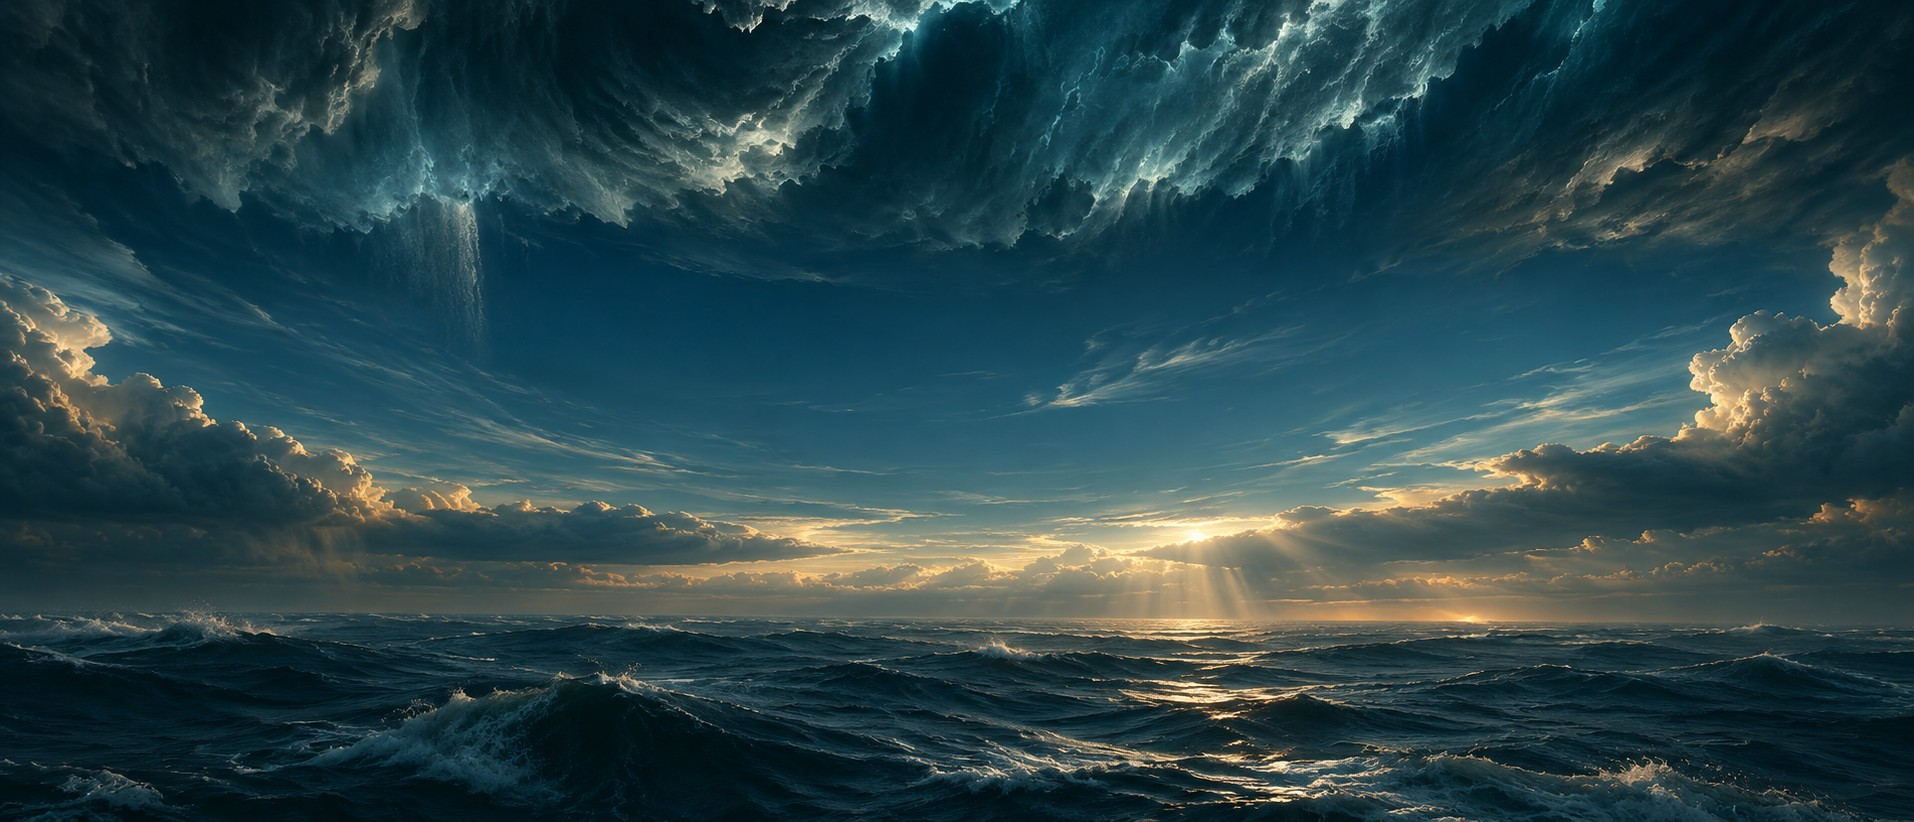
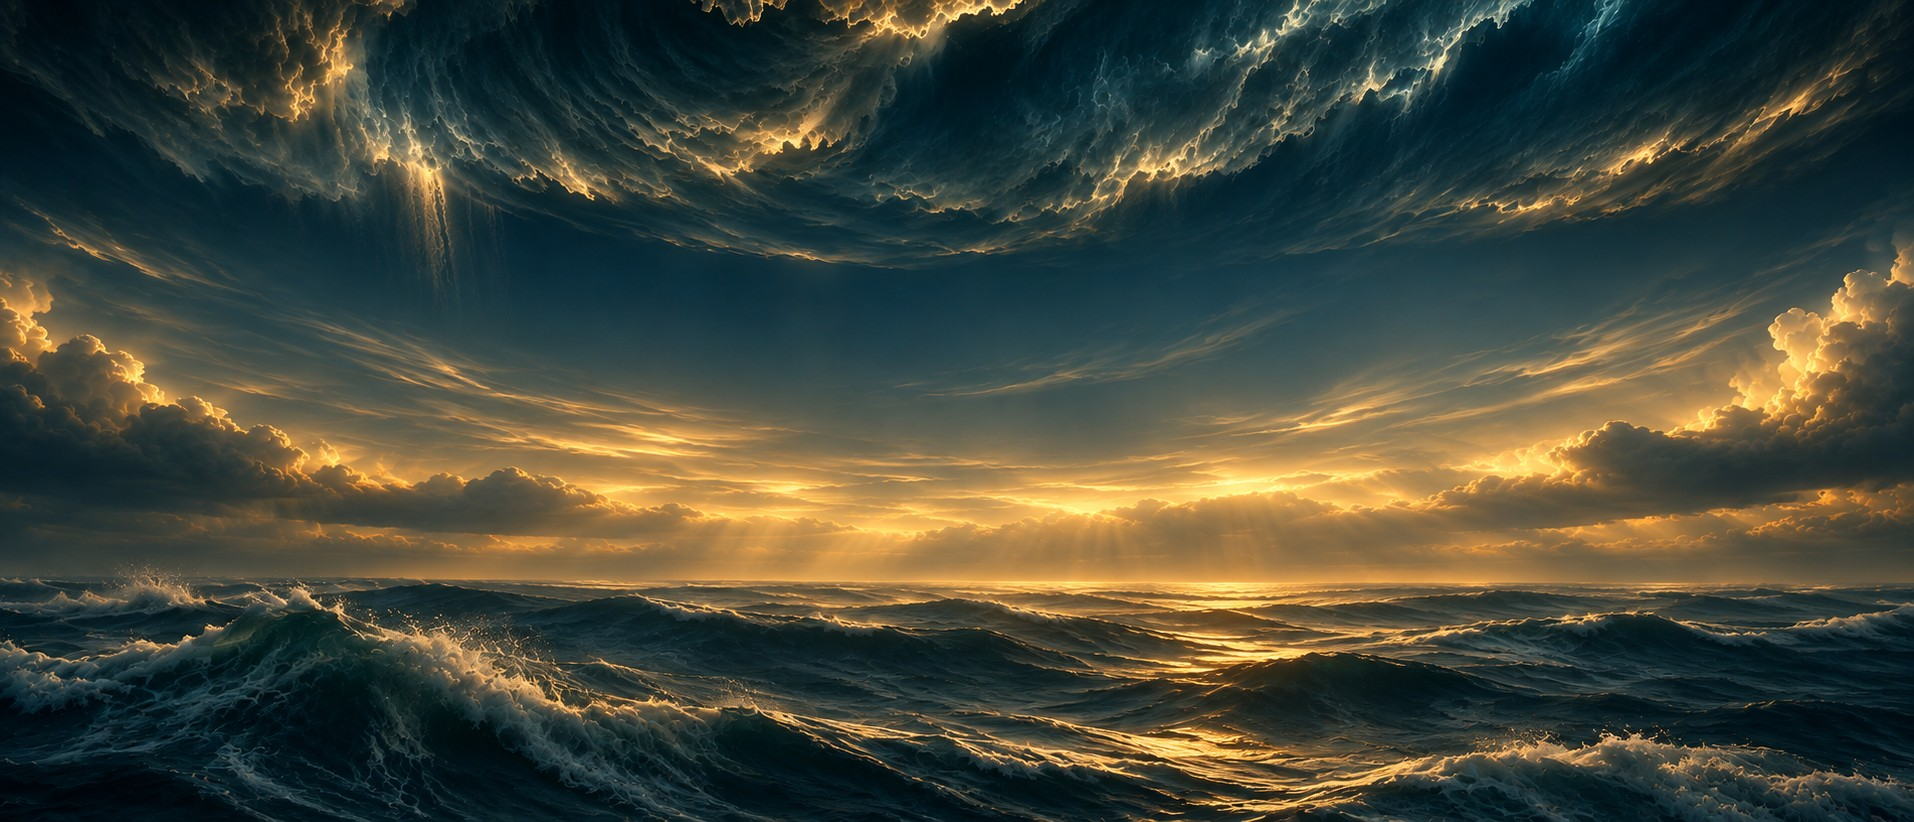
NEXUS: quadros da criação aprovados pelo juiz (todos 8 ou mais); mundos em modo estudo com o guia à esquerda; pesquisa das sete trombetas

diff --git a/public/nexus/livro-cinema.js b/public/nexus/livro-cinema.js
@@ -12,9 +12,20 @@ export const CINEMA = {
     { img: 'genesis-06-vida', ref: 'Gênesis 1:20', txt: 'Produzam as águas abundantemente répteis de alma vivente; e voem as aves sobre a face da expansão dos céus.' },
     { img: 'genesis-07-eden', ref: 'Gênesis 2:8', txt: 'E plantou o Senhor Deus um jardim no Éden, da banda do oriente; e pôs ali o homem que tinha formado.' },
   ] },
+  trombetas: { livro: 'Apocalipse 8–11', titulo: 'As sete trombetas', nota: 'Quadros simbólicos do que o texto descreve. Há várias leituras do Apocalipse (futurista, histórica, preterista, idealista); a imagem não escolhe nenhuma.', quadros: [
+    { img: 'trombetas-00-trono', ref: 'Apocalipse 8:1–2', txt: "Quando abriu o sétimo selo, fez-se silêncio no céu, quase por meia hora. E vi os sete anjos que estavam em pé diante de Deus, e lhes foram dadas sete trombetas." },
+    { img: 'trombetas-00-altar', ref: 'Apocalipse 8:3–5', txt: "Veio outro anjo, e pôs-se junto ao altar, tendo um incensário de ouro; e foi-lhe dado muito incenso, para que o oferecesse com as orações de todos os santos sobre o altar de ouro que está diante do trono. E da mão do anjo subiu diante de Deus a fumaça do incenso com as orações dos santos. Depois do anjo tomou o incensário, encheu-o do fogo do altar e o lançou sobre a terra; e houve trovões, vozes, relâmpagos e terremoto." },
+    { img: 'trombetas-01', ref: 'Apocalipse 8:7 · 1ª trombeta', txt: "O primeiro anjo tocou a sua trombeta, e houve saraiva e fogo misturado com sangue, que foram lançados na terra; e foi queimada a terça parte da terra, a terça parte das árvores, e toda a erva verde." },
+    { img: 'trombetas-02', ref: 'Apocalipse 8:8–9 · 2ª trombeta', txt: "O segundo anjo tocou a sua trombeta, e foi lançado no mar como que um grande monte ardendo em fogo, e tornou-se em sangue a terça parte do mar. E morreu a terça parte das criaturas viventes que havia no mar, e foi destruída a terça parte dos navios." },
+    { img: 'trombetas-03', ref: 'Apocalipse 8:10–11 · 3ª trombeta', txt: "O terceiro anjo tocou a sua trombeta, e caiu do céu uma grande estrela, ardendo como uma tocha, e caiu sobre a terça parte dos rios, e sobre as fontes das águas. O nome da estrela era Absinto; e a terça parte das águas tornou-se em absinto, e muitos homens morreram das águas, porque se tornaram amargas." },
+    { img: 'trombetas-04', ref: 'Apocalipse 8:12 · 4ª trombeta', txt: "O quarto anjo tocou a sua trombeta, e foi ferida a terça parte do sol, a terça parte da lua, e a terça parte das estrelas; para que a terça parte deles se escurecesse, e a terça parte do dia não brilhante, e semelhantemente a da noite." },
+    { img: 'trombetas-05', ref: 'Apocalipse 9:1–3 · 5ª trombeta', txt: "O quinto anjo tocou a sua trombeta, e vi uma estrela que do céu caíra sobre a terra; e foi-lhe dada a chave do poço do abismo. E abriu o poço do abismo, e subiu fumaça do poço, como fumaça de uma grande fornalha; e com a fumaça do poço escureceram-se o sol e o ar. Da fumaça saíram gafanhotos sobre a terra; e foi-lhes dado poder, como o que têm os escorpiões da terra." },
+    { img: 'trombetas-06', ref: 'Apocalipse 9:13–16 · 6ª trombeta', txt: "O sexto anjo tocou a sua trombeta; e ouvi uma voz que vinha das quatro pontas do altar de ouro que estava diante de Deus, a qual dizia ao sexto anjo, que tinha a trombeta: Solta os quatro anjos que se acham presos junto do grande rio Eufrates. E foram soltos os quatro anjos que haviam sido preparados para aquela hora e dia e mês e ano, a fim de matarem a terça parte dos homens. O número dos exércitos dos cavaleiros era de duas miríades de miríades; pois ouvi o número deles." },
+    { img: 'trombetas-07', ref: 'Apocalipse 11:15 · 7ª trombeta', txt: "E tocou o sétimo anjo a sua trombeta, e houve no céu grandes vozes, que diziam: O reino do mundo passou a ser de nosso Senhor e do seu Cristo, e ele reinará pelos séculos dos séculos." }
+  ] },
 };
 
-export function tocarCinema(num, host, { aoTerminar } = {}) {
+export function tocarCinema(num, host, { aoTerminar, estudo = false } = {}) {
   const C = CINEMA[num]; if (!C) { if (aoTerminar) aoTerminar(); return null; }
   const raiz = document.createElement('div'); raiz.className = 'lc-raiz';
   raiz.innerHTML = `<style>
@@ -30,7 +41,8 @@ export function tocarCinema(num, host, { aoTerminar } = {}) {
     .lc-ref{position:absolute;left:50%;bottom:6.5%;transform:translateX(-50%);color:#E9C878;font:700 12.5px Inter,sans-serif;letter-spacing:.25em;text-transform:uppercase;opacity:0;transition:opacity 1s ease}
     .lc-ref.v{opacity:.95}
     .lc-pontos{position:absolute;left:50%;bottom:3%;transform:translateX(-50%);display:flex;gap:8px}
-    .lc-pontos i{width:7px;height:7px;border-radius:50%;background:rgba(255,255,255,.3);transition:all .4s}.lc-pontos i.a{background:#F3D38E;width:22px;border-radius:4px}
+    .lc-raiz.estudo .lc-txt{left:auto;right:4%;transform:none;width:min(620px,52%);text-align:right;bottom:13%;font-size:clamp(19px,1.9vw,28px)}.lc-raiz.estudo .lc-ref{left:auto;right:4%;transform:none;bottom:8%}.lc-raiz.estudo .lc-tit{left:auto;right:4%;text-align:right}.lc-raiz.estudo .lc-pontos{left:auto;right:4%;transform:none}.lc-raiz.estudo .lc-dica{left:auto;right:22px;top:60px}.lc-nota{position:absolute;right:4%;top:15%;max-width:420px;text-align:right;color:rgba(255,236,190,.75);font:12px/1.5 Inter,sans-serif}
+    .lc-pontos i{cursor:pointer;width:7px;height:7px;border-radius:50%;background:rgba(255,255,255,.3);transition:all .4s}.lc-pontos i.a{background:#F3D38E;width:22px;border-radius:4px}
     .lc-pular{position:absolute;right:22px;top:20px;border:1px solid rgba(255,255,255,.4);background:rgba(0,0,0,.35);backdrop-filter:blur(6px);color:#fff;border-radius:999px;padding:8px 15px;font:600 12.5px Inter,sans-serif;cursor:pointer}
     .lc-dica{position:absolute;left:22px;top:22px;color:rgba(255,255,255,.65);font-size:12px}
     canvas.lc-poeira{position:absolute;inset:0;width:100%;height:100%;pointer-events:none;mix-blend-mode:screen}
@@ -38,8 +50,8 @@ export function tocarCinema(num, host, { aoTerminar } = {}) {
   <div class="lc-quadros"></div><canvas class="lc-poeira"></canvas><div class="lc-vin"></div>
   <div class="lc-tit">${C.livro} · ${C.titulo}</div>
   <div class="lc-txt"></div><div class="lc-ref"></div><div class="lc-pontos">${C.quadros.map(() => '<i></i>').join('')}</div>
-  <div class="lc-dica">Clique para avançar</div><button type="button" class="lc-pular">Entrar no livro ›</button>`;
-  host.appendChild(raiz);
+  <div class="lc-dica">${estudo ? 'Clique na imagem ou nos pontos para passar' : 'Clique para avançar'}</div>${C.nota ? `<div class="lc-nota">${C.nota}</div>` : ''}<button type="button" class="lc-pular">${estudo ? '✕ Sair do mundo' : 'Entrar no livro ›'}</button>`;
+  if (estudo) raiz.classList.add('estudo'); host.appendChild(raiz);
   const box = raiz.querySelector('.lc-quadros'), txt = raiz.querySelector('.lc-txt'), ref = raiz.querySelector('.lc-ref'), pts = [...raiz.querySelectorAll('.lc-pontos i')];
   const els = C.quadros.map((q) => { const d = document.createElement('div'); d.className = 'lc-q'; d.style.backgroundImage = `url(/nexus/livros/${q.img}.jpg)`; box.appendChild(d); return d; });
   // pré-carrega
@@ -52,10 +64,10 @@ export function tocarCinema(num, host, { aoTerminar } = {}) {
     const q = C.quadros[k]; txt.innerHTML = q.txt.split(' ').map((w) => `<span>${w} </span>`).join(''); ref.textContent = q.ref; ref.classList.remove('v');
     [...txt.children].forEach((s, i) => setTimeout(() => s.classList.add('v'), 700 + i * 90));
     setTimeout(() => ref.classList.add('v'), 900 + txt.children.length * 90);
-    clearTimeout(auto); auto = setTimeout(() => mostrar(n + 1), 9500 + txt.children.length * 60);
+    clearTimeout(auto); if (!estudo) auto = setTimeout(() => mostrar(n + 1), 9500 + txt.children.length * 60);
   }
   function terminar() { if (fim) return; fim = true; clearTimeout(auto); raiz.classList.remove('on'); setTimeout(() => { ativo = false; raiz.remove(); }, 1300); if (aoTerminar) setTimeout(aoTerminar, 300); }
-  raiz.addEventListener('click', (e) => { if (e.target.closest('.lc-pular')) { terminar(); return; } mostrar(n + 1); });
+  raiz.addEventListener('click', (e) => { if (e.target.closest('.lc-pular')) { terminar(); return; } const pi = pts.indexOf(e.target); if (pi >= 0) { mostrar(pi); return; } if (estudo && n >= C.quadros.length - 1) return; mostrar(n + 1); });
   const tecla = (e) => { if (!document.body.contains(raiz)) { window.removeEventListener('keydown', tecla); return; } if (e.key === 'Escape') terminar(); else if (e.key === ' ' || e.key === 'ArrowRight' || e.key === 'Enter') { e.preventDefault(); mostrar(n + 1); } };
   window.addEventListener('keydown', tecla);
   // câmera de cinema: aproximação lenta e deriva; poeira de luz flutuando
@@ -69,5 +81,5 @@ export function tocarCinema(num, host, { aoTerminar } = {}) {
     requestAnimationFrame(quadro);
   }
   requestAnimationFrame((t) => { raiz.classList.add('on'); setTimeout(() => mostrar(0), 600); quadro(t); });
-  return { terminar, quadro: () => n };
+  return { terminar, ir: (k) => mostrar(Math.max(0, Math.min(C.quadros.length - 1, k))), quadro: () => n, total: C.quadros.length };
 }

diff --git a/public/nexus/ceu-universo.js b/public/nexus/ceu-universo.js
@@ -1626,10 +1626,18 @@ export function criarCeu(container, estado, acoes) {
     const c = melhor.c; c.visivel = true; if (c.opacidade < 0.3) c.opacidade = 0.75; montarPainel(); abrirFichaCamada(c, melhor.r.i, true); return true;
   }
   const cinemaVisto = new Set(); let cinemaMod = null;
+  let mundoAtivo = null;
+  window.NEXUS_MUNDO = async (id) => {   // o ambiente inteiro vira o mundo do tema (protótipo: 'trombetas')
+    try { if (!cinemaMod) cinemaMod = await import('/nexus/livro-cinema.js?v=2'); } catch (_) { return false; }
+    if (!cinemaMod.CINEMA[id]) return false; if (mundoAtivo) mundoAtivo.terminar();
+    document.body.classList.add('mundo-ativo'); mundoAtivo = cinemaMod.tocarCinema(id, ui, { estudo: true, aoTerminar: () => { mundoAtivo = null; document.body.classList.remove('mundo-ativo'); } });
+    return true;
+  };
+  window.NEXUS_MUNDO_IR = (k) => { if (mundoAtivo) mundoAtivo.ir(k); };
   async function entrarLivro(lv) {
     sobreLivro = null; info.hidden = true;
     const voa = () => voar(lv.cx, lv.cy, lv.raio * 4.2);
-    try { if (!cinemaMod) cinemaMod = await import('/nexus/livro-cinema.js?v=1'); } catch (_) { voa(); return; }
+    try { if (!cinemaMod) cinemaMod = await import('/nexus/livro-cinema.js?v=2'); } catch (_) { voa(); return; }
     const lista = await fetch('/nexus/livros/cinema.json?v=' + Math.floor(Date.now() / 60000)).then((r) => r.json()).catch(() => []);
     if (!cinemaMod.CINEMA[lv.num] || !lista.includes(lv.num) || cinemaVisto.has(lv.num)) { voa(); return; }
     cinemaVisto.add(lv.num); cinemaMod.tocarCinema(lv.num, ui, { aoTerminar: voa });
@@ -1662,6 +1670,7 @@ export function criarCeu(container, estado, acoes) {
     if (/^(o )?(golgota|calvario|monte calvario|santo sepulcro|lugar da caveira|sepulcro de jesus|tumulo de jesus)$/.test(q)) { abrirLugarReal('golgota'); return true; }
     if (/^(o )?(tumulo|sepulcro) de lazaro$/.test(q)) { abrirLugarReal('lazaro'); return true; }
     if (/^nazare$/.test(q)) { abrirLugarReal('nazare'); return true; }
+    if (/(sete|7) trombetas|^trombetas$/.test(q)) { window.NEXUS_MUNDO('trombetas'); return true; }
     if (/^(o )?(jardim do )?eden$|^paraiso$/.test(q)) { import('/nexus/panorama360.js?v=1').then((m) => m.abrirPanorama(THREE, 'eden', ui)); return true; }
     if (/^(cafarnaum|capernaum|casa de pedro)$/.test(q)) { abrirLugarReal('cafarnaum'); return true; }
     if (/^(magdala|sinagoga de magdala)$/.test(q)) { abrirLugarReal('magdala'); return true; }

diff --git a/public/nexus/nexus.js b/public/nexus/nexus.js
@@ -97,7 +97,7 @@ function definirAcesso(aberto) {
 // contexto para a barra lateral 'Pergunte ao Claude' (só os nomes; nós de obra externa ficam de fora)
 window.NEXUS_CONTEXTO = () => { const no = (id) => (id && S.graph && S.graph.hasNode(id) && !String(id).startsWith('x:') ? { id, rotulo: lab(id) } : null); return { foco: no(S.foco), sel: no(S.sel) }; };
 import('/nexus/conversa.js?v=1').then((m) => m.iniciarConversa()).catch(() => {});
-import('/nexus/preparar.js?v=1').then((m) => m.iniciarPreparar()).catch(() => {});
+import('/nexus/preparar.js?v=2').then((m) => m.iniciarPreparar()).catch(() => {});
 window.NEXUS_ABRIR_CEU = () => abrirCeu();   // a barra Preparar abre o universo para ele trabalhar
 function tirarExternos() {
   const g = S.graph; if (!g || !g.order) return;
@@ -475,7 +475,7 @@ async function abrirCeu() {
       const local = /^(localhost|127\.)/.test(location.hostname);
       const arquivo = PARAM_CEU === 'classico' ? '/nexus/ceu.js?v=9'
         : PARAM_CEU === 'previa' && local ? '/nexus/ceu-previa.js?v=1'
-        : new URLSearchParams(location.search).get('versao') === 'anterior' ? '/nexus/anterior/ceu-universo.js' : '/nexus/ceu-universo.js?v=122';
+        : new URLSearchParams(location.search).get('versao') === 'anterior' ? '/nexus/anterior/ceu-universo.js' : '/nexus/ceu-universo.js?v=123';
       const { criarCeu } = await import(arquivo);
       ceu = criarCeu($('ceu'), S, { visivelNo, visivelAresta, selecionar, expandir, painelAresta, abrirGrupo, indisponivel: ceuIndisponivel });
       window.__ceuPrevia = ceu;   // ganchos de teste (só leitura)

diff --git a/public/nexus/index.html b/public/nexus/index.html
@@ -10,7 +10,7 @@
 <link rel="preconnect" href="https://fonts.googleapis.com">
 <link rel="preconnect" href="https://fonts.gstatic.com" crossorigin>
 <link href="https://fonts.googleapis.com/css2?family=Cormorant+Garamond:wght@500;600;700&family=Inter:wght@400;500;600;700&display=swap" rel="stylesheet">
-<link rel="stylesheet" href="/nexus/nexus.css?v=12">
+<link rel="stylesheet" href="/nexus/nexus.css?v=13">
 </head>
 <body>
 <!-- NEXUS BÍBLICO — mapa de conhecimento (19/11/2026). O motor está em api/_lib/nexus.js. -->
@@ -79,6 +79,6 @@
 </div>
 
 <script type="importmap">{"imports":{"three":"https://cdn.jsdelivr.net/npm/three@0.170.0/build/three.module.js"}}</script>
-<script type="module" src="/nexus/nexus.js?v=26"></script>
+<script type="module" src="/nexus/nexus.js?v=27"></script>
 </body>
 </html>

diff --git a/public/nexus/preparar.js b/public/nexus/preparar.js
@@ -51,6 +51,9 @@ function mostrar(estado) {
 async function preparar(form) {
   const f = new FormData(form), pedido = { tipo: f.get('tipo'), tema: String(f.get('tema') || '').trim(), publico: f.get('publico'), duracao: f.get('duracao'), obs: String(f.get('obs') || '').trim() };
   if (!pedido.tema) return;
+  const MUNDOS = [[/trombeta/i, 'trombetas'], [/cria[cç][aã]o|g[eê]nesis\s*1\b|no princ[ií]pio/i, 1]];   // temas que têm um mundo de cinema
+  const mundo = (MUNDOS.find(([re]) => re.test(pedido.tema)) || [])[1];
+  if (mundo != null && typeof window.NEXUS_MUNDO === 'function') window.NEXUS_MUNDO(mundo);
   mostrar({ etapa: 'universo' });
   // 1) o universo trabalha: abre o Céu se preciso e monta o dossiê
   let dossie = null;

diff --git a/public/nexus/nexus.css b/public/nexus/nexus.css
@@ -246,3 +246,5 @@ body.modo-lista .legenda{display:flex;position:static;margin:0 0 12px;max-width:
 body.preparar-aberto .cu-camadas,body.preparar-aberto .cu-relogio{display:none!important}
 @media (max-width:760px){.preparar{top:auto;left:0;right:0;bottom:0;width:auto;height:80vh;border-radius:18px 18px 0 0}}
 body.ceu-universo .carregando{top:auto;bottom:46px;background:rgba(3,8,22,.88);border:1px solid rgba(233,200,120,.35)}
+
+body.mundo-ativo .preparar{left:12px;right:auto;z-index:60;background:rgba(252,248,238,.97);backdrop-filter:blur(6px)}
